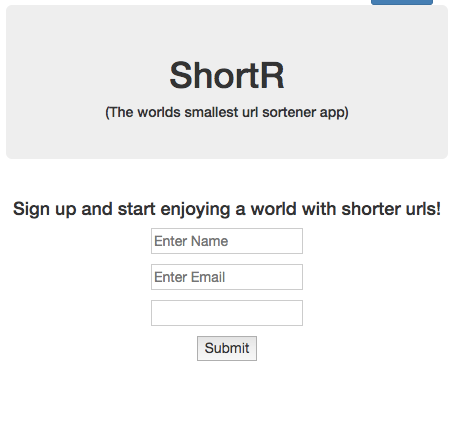
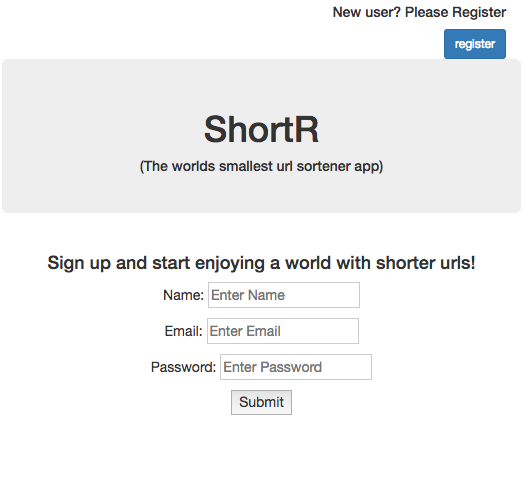
Minor error in registration fixed. Now properly catching missing fields.

diff --git a/express-server.js b/express-server.js
@@ -137,8 +137,8 @@ function startServer() {
   });
 
   app.post( "/register",  (req, res) => {
-    if ( req.body.email == "") {
-      res.status(400).send( "Please provide valid email.");
+    if ( !req.body.email || !req.body.name || !req.body.password ) {
+      res.status(400).send( "Please provide valid name, email and password.");
       return;
     }
     for (let user in users) {
